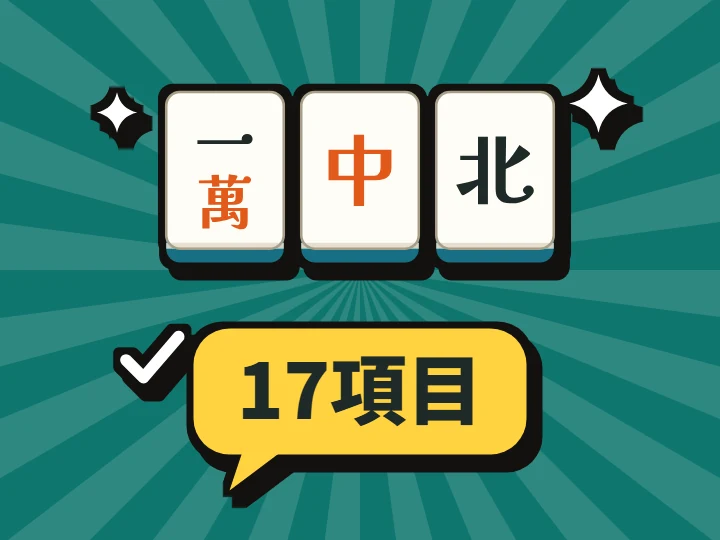
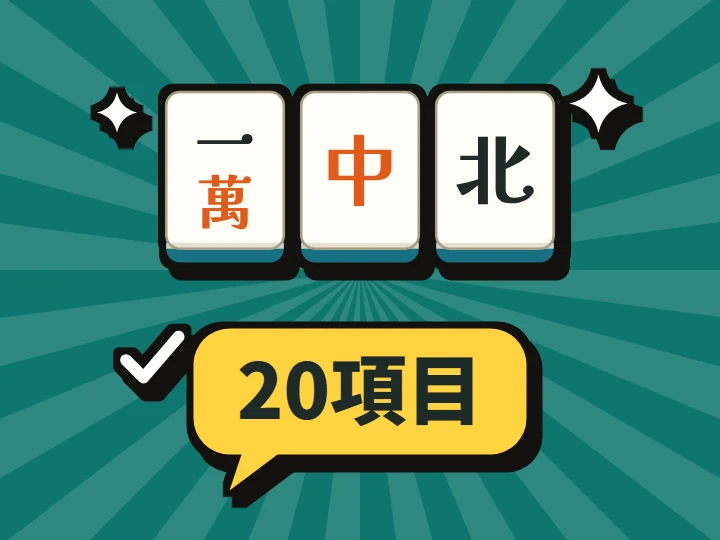
上級ルールの記事に「トビありの卓で確かめたい3項目」を足す（17→20項目）
ユーザーの依頼。0点・マイナスになるリーチ、トビ賞は飛ばした人か1着か、ツモ番がないリーチを
選択肢とそのあとの扱いつきで。確認リスト・まとめ・集計係の節（トビ賞をチップで渡すときの記録）も更新。
題名・サムネ・共有画像（ファイル名を -2 に）も20項目に。分かれ目6選へのリンク先がこの記事自身だった誤りも直した。

Changed region(s): [[0.3361, 0.6519, 0.4583, 0.7704]]

diff --git a/blog-rule-joukyu.html b/blog-rule-joukyu.html
@@ -14,8 +14,8 @@ j=d.createElement(s),dl=l!='dataLayer'?'&l='+l:'';j.async=true;j.src=
 <meta name="google-adsense-account" content="ca-pub-9998035509478799">
 <script async src="https://pagead2.googlesyndication.com/pagead/js/adsbygoogle.js?client=ca-pub-9998035509478799"
      crossorigin="anonymous"></script>
-<title>【保存版】打つ前に確認したい上級ルール17項目｜ダブル役満・国士の暗槓ロン・カンドラ・北抜き・ツモり切り | まじゃすこ</title>
-<meta name="description" content="ダブル役満（四暗刻単騎・国士13面・純正九蓮宝燈）、国士の暗槓ロン、カンドラのめくり方、パオ、リーチ後のカン、あがりやめ、ローカル役、三麻の北抜き・花牌・赤・嶺上牌・ツモり切り・ツモ損。揉めやすい17項目を選択肢つきで整理します。">
+<title>【保存版】打つ前に確認したい上級ルール20項目｜ダブル役満・国士の暗槓ロン・トビ寸前のリーチ・北抜き | まじゃすこ</title>
+<meta name="description" content="ダブル役満（四暗刻単騎・国士13面・純正九蓮宝燈）、国士の暗槓ロン、カンドラのめくり方、パオ、リーチ後のカン、あがりやめ、ローカル役、三麻の北抜き・花牌・赤・嶺上牌・ツモり切り・ツモ損。トビ寸前のリーチ・トビ賞・ツモ番なしのリーチも。揉めやすい20項目を選択肢つきで整理します。">
 <link rel="canonical" href="https://majasco.jp/blog-rule-joukyu.html">
 <link rel="alternate" type="application/rss+xml" title="まじゃすこ お知らせRSS" href="https://majasco.jp/news/feed.xml">
 <link rel="icon" type="image/png" sizes="512x512" href="/assets/favicon.png">
@@ -25,17 +25,17 @@ j=d.createElement(s),dl=l!='dataLayer'?'&l='+l:'';j.async=true;j.src=
 <meta property="og:type" content="article">
 <meta property="og:url" content="https://majasco.jp/blog-rule-joukyu.html">
 <meta property="og:site_name" content="まじゃすこ / majasco">
-<meta property="og:title" content="【保存版】打つ前に確認したい上級ルール17項目｜ダブル役満・国士の暗槓ロン・カンドラ・北抜き・ツモり切り">
-<meta property="og:description" content="玄人の卓・ローカル役・三麻で揉めやすい17項目を、選択肢つきの確認リストに。">
+<meta property="og:title" content="【保存版】打つ前に確認したい上級ルール20項目｜ダブル役満・国士の暗槓ロン・トビ寸前のリーチ・北抜き">
+<meta property="og:description" content="玄人の卓・トビ・ローカル役・三麻で揉めやすい20項目を、選択肢つきの確認リストに。">
 <meta property="og:locale" content="ja_JP">
-<meta property="og:image" content="https://majasco.jp/assets/og/blog-rule-joukyu.png">
+<meta property="og:image" content="https://majasco.jp/assets/og/blog-rule-joukyu-2.png">
 <meta property="og:image:width" content="1200">
 <meta property="og:image:height" content="630">
 <meta name="twitter:card" content="summary_large_image">
 <meta name="twitter:site" content="@majasco_jp">
-<meta name="twitter:image" content="https://majasco.jp/assets/og/blog-rule-joukyu.png">
-<meta name="twitter:title" content="【保存版】打つ前に確認したい上級ルール17項目｜ダブル役満・国士の暗槓ロン・カンドラ・北抜き・ツモり切り">
-<meta name="twitter:description" content="玄人の卓・ローカル役・三麻で揉めやすい17項目を、選択肢つきの確認リストに。">
+<meta name="twitter:image" content="https://majasco.jp/assets/og/blog-rule-joukyu-2.png">
+<meta name="twitter:title" content="【保存版】打つ前に確認したい上級ルール20項目｜ダブル役満・国士の暗槓ロン・トビ寸前のリーチ・北抜き">
+<meta name="twitter:description" content="玄人の卓・トビ・ローカル役・三麻で揉めやすい20項目を、選択肢つきの確認リストに。">
 <style>
 * { box-sizing: border-box; margin: 0; padding: 0; }
 body { font-family: -apple-system, BlinkMacSystemFont, 'Segoe UI', 'Hiragino Kaku Gothic ProN', 'Noto Sans JP', sans-serif; background: #fff; color: #222; line-height: 1.95; -webkit-font-smoothing: antialiased; }
@@ -118,7 +118,7 @@ body { font-family: -apple-system, BlinkMacSystemFont, 'Segoe UI', 'Hiragino Kak
 p .yomi, li .yomi { font-size: .78em; }
 </style>
 <link rel="stylesheet" href="/assets/blog.css">
-<script type="application/ld+json">{"@context": "https://schema.org", "@type": "Article", "headline": "【保存版】打つ前に確認したい上級ルール17項目｜ダブル役満・国士の暗槓ロン・カンドラ・北抜き・ツモり切り", "description": "ダブル役満（四暗刻単騎・国士13面・純正九蓮宝燈）、国士の暗槓ロン、カンドラのめくり方、パオ、リーチ後のカン、あがりやめ、ローカル役、三麻の北抜き・花牌・赤・嶺上牌・ツモり切り・ツモ損。揉めやすい17項目を選択肢つきで整理します。", "image": "https://majasco.jp/assets/og/blog-rule-joukyu.png", "datePublished": "2026-11-11", "dateModified": "2026-11-11", "author": {"@type": "Person", "name": "むにぃ", "url": "https://majasco.jp/about.html"}, "publisher": {"@type": "Organization", "name": "まじゃすこ / majasco", "logo": {"@type": "ImageObject", "url": "https://majasco.jp/assets/favicon.png"}}, "mainEntityOfPage": "https://majasco.jp/blog-rule-joukyu.html"}</script>
+<script type="application/ld+json">{"@context": "https://schema.org", "@type": "Article", "headline": "【保存版】打つ前に確認したい上級ルール20項目｜ダブル役満・国士の暗槓ロン・トビ寸前のリーチ・北抜き", "description": "ダブル役満（四暗刻単騎・国士13面・純正九蓮宝燈）、国士の暗槓ロン、カンドラのめくり方、パオ、リーチ後のカン、あがりやめ、ローカル役、三麻の北抜き・花牌・赤・嶺上牌・ツモり切り・ツモ損。トビ寸前のリーチ・トビ賞・ツモ番なしのリーチも。揉めやすい20項目を選択肢つきで整理します。", "image": "https://majasco.jp/assets/og/blog-rule-joukyu-2.png", "datePublished": "2026-11-11", "dateModified": "2026-11-11", "author": {"@type": "Person", "name": "むにぃ", "url": "https://majasco.jp/about.html"}, "publisher": {"@type": "Organization", "name": "まじゃすこ / majasco", "logo": {"@type": "ImageObject", "url": "https://majasco.jp/assets/favicon.png"}}, "mainEntityOfPage": "https://majasco.jp/blog-rule-joukyu.html"}</script>
   <link rel="stylesheet" href="/assets/site-foot.css">
 </head>
 <body>
@@ -137,16 +137,16 @@ height="0" width="0" style="display:none;visibility:hidden"></iframe></noscript>
 
 <div class="post-layout">
 <article class="blog-post">
-  <h1>【保存版】打つ前に確認したい上級ルール17項目｜ダブル役満・国士の暗槓ロン・カンドラ・北抜き・ツモり切り</h1>
+  <h1>【保存版】打つ前に確認したい上級ルール20項目｜ダブル役満・国士の暗槓ロン・トビ寸前のリーチ・北抜き</h1>
   <p class="post-meta">2026.11.11</p>
 
   <figure class="eyecatch"><img src="/assets/thumbs/blog-rule-joukyu.webp" alt="打つ前に確認したい上級ルールのイメージ" width="320" height="240" fetchpriority="high"></figure>
 
-  <div class="post-ans"><p class="pa-h">この記事の結論</p><ul><li>基本の10項目の先に、揉めやすい<strong>17項目</strong>がある（玄人7・ローカル役4・三麻6）</li><li>どれも正解は1つではない。<strong>選択肢を見せて、打つ前に決める</strong></li><li>どれを選んでも、<strong>最後の持ち点を入れればスコアの計算は同じ</strong></li></ul></div>
-  <div class="post-toc"><b>この記事でわかること</b><a href="#kurouto">玄人の7項目</a><a href="#yakuman">ダブル役満</a><a href="#kokushi">国士の暗槓ロン</a><a href="#kandora">カンドラ</a><a href="#local">ローカル役</a><a href="#sanma">三麻の6項目</a><a href="#list">確認リスト</a><a href="#shukei">集計係の目線</a></div>
+  <div class="post-ans"><p class="pa-h">この記事の結論</p><ul><li>基本の10項目の先に、揉めやすい<strong>20項目</strong>がある（玄人7・トビ3・ローカル役4・三麻6）</li><li>どれも正解は1つではない。<strong>選択肢を見せて、打つ前に決める</strong></li><li>どれを選んでも、<strong>最後の持ち点を入れればスコアの計算は同じ</strong></li></ul></div>
+  <div class="post-toc"><b>この記事でわかること</b><a href="#kurouto">玄人の7項目</a><a href="#yakuman">ダブル役満</a><a href="#kokushi">国士の暗槓ロン</a><a href="#kandora">カンドラ</a><a href="#tobi">トビの3項目</a><a href="#local">ローカル役</a><a href="#sanma">三麻の6項目</a><a href="#list">確認リスト</a><a href="#shukei">集計係の目線</a></div>
 
   <p>持ち点・ウマ・同点・供託といった基本の決めごとは「<a href="/blog-house-rules.html">打つ前に決める10項目チェックリスト</a>」にまとめました。ただ、いつものメンバーで長く打っていると、その先の細かいルールで手が止まる場面が出てきます。「<ruby>四暗刻<rt>スーアンコー</rt></ruby>の<ruby>単騎<rt>タンキ</rt></ruby>ってダブルだっけ？」「三麻で北は抜く？」——ふだんは起きないので、起きたときにだけ揉めるルールです。</p>
-  <p>この記事では、そうした上級のルールを17項目、選択肢つきで並べました。どれも「こちらが正しい」とは言えません。大事なのは、どちらにするかを打つ前に決めて、全員が同じ答えを持っていることです。意見が分かれやすい基本の6つ（ダブ東の符・ダブロンなど）は「<a href="/blog-rule-joukyu.html">麻雀ルールの分かれ目6選</a>」で比べています。</p>
+  <p>この記事では、そうした上級のルールを20項目、選択肢つきで並べました。どれも「こちらが正しい」とは言えません。大事なのは、どちらにするかを打つ前に決めて、全員が同じ答えを持っていることです。意見が分かれやすい基本の6つ（ダブ東の符・ダブロンなど）は「<a href="/blog-rule-wakareme.html">麻雀ルールの分かれ目6選</a>」で比べています。</p>
 
   <figure class="fg" id="fg-jk"><p class="fg-ttl">玄人の卓の「どっち？」</p><div class="fg-vs"><div class="vs-q">四暗刻単騎・国士13面・純正九蓮</div><div class="vs-row"><div class="vs-a">ダブル<ruby>役満<rt>ヤクマン</rt></ruby><small>形の難しさに報いる</small></div><span class="vs-x">VS</span><div class="vs-b">ふつうの役満<small>役満は役満</small></div></div><div class="vs-q"><ruby>国士無双<rt>コクシムソウ</rt></ruby>で人の<ruby>暗槓<rt>アンカン</rt></ruby>をロン</div><div class="vs-row"><div class="vs-a">できる<small>国士だけの特例</small></div><span class="vs-x">VS</span><div class="vs-b">できない<small><ruby>搶槓<rt>チャンカン</rt></ruby>は<ruby>加槓<rt>カカン</rt></ruby>だけ</small></div></div><div class="vs-q"><ruby>明槓<rt>ミンカン</rt></ruby>のカンドラ</div><div class="vs-row"><div class="vs-a">すぐめくる<small>先めくり</small></div><span class="vs-x">VS</span><div class="vs-b">捨ててから<small>後めくり</small></div></div><div class="vs-q">オーラスで親がトップ</div><div class="vs-row"><div class="vs-a">あがりやめ<small>終われる</small></div><span class="vs-x">VS</span><div class="vs-b">続ける<small>親は続行</small></div></div></div><figcaption>どちらにも理由がある。下で1つずつ見ていきます</figcaption></figure>
 
@@ -178,6 +178,36 @@ height="0" width="0" style="display:none;visibility:hidden"></iframe></noscript>
   <h3 id="kazoe">7. 数え役満</h3>
   <p>役満の役がなくても、役とドラを足して13翻以上になったら役満にするかどうかです。競技のルールでは採用しないものもあり、仲間内では「入れる」卓も珍しくありません。</p>
 
+  <h2 id="tobi">トビありの卓で確かめたい3項目</h2>
+  <p>持ち点が0点を下回った人が出たら、その時点で試合を終える「トビ終了」の卓では、点数が少なくなった人のリーチと、トビ賞の受け取り方で揉めやすくなります。どれも<strong>持ち点が少ない人がいる局でしか起きない</strong>ので、ふだんは気にしなくても、起きた瞬間に手が止まります。ここでは「0点ちょうどはトビではない（0点を下回ったらトビ）」として、続ける場合の決めごとを並べます。0点ちょうどもトビにする卓では、下の「0点になるリーチ」はトビのリーチと同じ扱いになります。</p>
+  <figure class="fg" id="fg-jktobi"><p class="fg-ttl">トビ寸前の「どっち？」</p><div class="fg-vs"><div class="vs-q">持ち点1,000点でリーチ（0点になる）</div><div class="vs-row"><div class="vs-a">できる<small>0点はトビではない</small></div><span class="vs-x">VS</span><div class="vs-b">できない<small>出せる点棒がない</small></div></div><div class="vs-q">持ち点500点でリーチ（−500点になる）</div><div class="vs-row"><div class="vs-a">できる<small>あがれば戻れる</small></div><span class="vs-x">VS</span><div class="vs-b">できない<small>1,000点に足りない</small></div></div><div class="vs-q">トビ賞をもらうのは</div><div class="vs-row"><div class="vs-a">飛ばした人<small>とどめを刺した人</small></div><span class="vs-x">VS</span><div class="vs-b">その時の1着<small>トップの人</small></div></div><div class="vs-q">もうツモ番がないのにリーチ</div><div class="vs-row"><div class="vs-a">できる<small>ロンだけを待つ</small></div><span class="vs-x">VS</span><div class="vs-b">できない<small>ツモれないので不可</small></div></div></div><figcaption>どれも、持ち点が少ない人や山の残りが少ない局でしか起きない</figcaption></figure>
+
+  <h3 id="tobi-riichi">8. 持ち点が0点・マイナスになるリーチ</h3>
+  <p>リーチをするには、供託の1,000点棒を出します。持ち点が1,000点ちょうどの人がリーチをすると0点に、1,000点に足りない人がリーチをすると<strong>マイナス</strong>になります。トビ終了の卓では、これを認めるかどうかで、その人の最後の1局が変わります。</p>
+  <div class="table-scroll"><table><thead><tr><th>場面</th><th>決め方</th><th>そのあと</th></tr></thead><tbody>
+  <tr><td>0点になるリーチ</td><td>できる</td><td>0点はトビではないので、局が終わっても続行。<br>あがれば持ち点が戻る</td></tr>
+  <tr><td>0点になるリーチ</td><td>できない</td><td>1,000点を出したら手元に点棒が残らないので、リーチはかけられない</td></tr>
+  <tr><td>マイナスになるリーチ</td><td>できる</td><td>あがれば戻れる。<br>あがれずに局が終わってマイナスのままなら、そこでトビ</td></tr>
+  <tr><td>マイナスになるリーチ</td><td>できない</td><td>持ち点が1,000点に足りない人はリーチできない。<br>ダマで待つ</td></tr>
+  </tbody></table></div>
+  <p>マイナスになるリーチを認めるときは、<strong>トビを判定するのは局が終わったとき</strong>（リーチ棒を出した瞬間ではない）と決めておくと迷いません。認めないときは、持ち点が足りないのにリーチを宣言してしまった場合に、取り消して続けるのか、チョンボにするのかもあわせて決めます。</p>
+
+  <h3 id="tobi-sho">9. トビ賞は誰がもらうか</h3>
+  <p>人を飛ばした（0点を下回らせた）ときに、ご褒美を出すのがトビ賞です。トビ賞を入れるなら、<strong>誰がもらうか</strong>を決めておきます。</p>
+  <div class="table-scroll"><table><thead><tr><th>決め方</th><th>考え方</th><th>気をつけたいこと</th></tr></thead><tbody>
+  <tr><td>飛ばした人がもらう</td><td>とどめを刺したあがりに報いる</td><td>ツモで飛んだときは、ツモであがった人。<br>ダブロンで飛んだときは2人で分けるか、<ruby>上家<rt>カミチャ</rt></ruby>取りにするか</td></tr>
+  <tr><td>その時の1着がもらう</td><td>試合の結果（トップ）に報いる</td><td>飛ばした人と1着が別の人のこともある。<br>同点の1着がいたら分けるか</td></tr>
+  </tbody></table></div>
+  <p>あわせて、<strong>何をもらうか</strong>（点数を足すのか、チップを何枚か）と、<strong>飛んだ人がマイナスの分をどう扱うか</strong>（そのままの持ち点で計算するか、0点として計算するか）も決めます。持ち点の扱いは、<ruby>半荘<rt>ハンチャン</rt></ruby>のスコアに直接響きます。</p>
+
+  <h3 id="tsumoban">10. ツモ番がないリーチ</h3>
+  <p>山の残りが少なくなって、<strong>自分にもうツモ番が回ってこない</strong>ときのリーチです。四麻では山の残りが4枚より少ないと（三麻なら3枚）、リーチをしても自分では1回もツモれません。</p>
+  <div class="table-scroll"><table><thead><tr><th>決め方</th><th>考え方</th></tr></thead><tbody>
+  <tr><td>できる</td><td>ロンなら待てる。<br>リーチの1翻と、流局したときのテンパイの扱いで点数が動く</td></tr>
+  <tr><td>できない</td><td>リーチは、自分のツモが1回以上あるときだけ。<br>流局まで待つだけのリーチは認めない</td></tr>
+  </tbody></table></div>
+  <p>できないことにする卓が多いルールです。そのときは「山の残りが何枚から」を決めておくと、その場で数えて判断できます。間違えてリーチを宣言したときに、取り消すのかチョンボにするのかも、8と同じように決めておきます。</p>
+
   <h2 id="local">ローカル役は「あるか・何点か」を決める</h2>
   <p>ローカル役は、一般的なルールにはないけれど、地域や仲間内で使われる役です。<strong>あるかないか</strong>と、<strong>あるなら何点か</strong>の2つを決めます。</p>
   <div class="table-scroll"><table><thead><tr><th>役</th><th>条件</th><th>よくある扱い</th></tr></thead><tbody>
@@ -201,10 +231,11 @@ height="0" width="0" style="display:none;visibility:hidden"></iframe></noscript>
   <p>ツモり切りは、王牌を残さずにドラ表示牌のすぐ横まで引くルールで、ツモの回数が増えます。抜く牌や点棒の数え方など、三麻の基本は「<a href="/blog-sanma-rules.html">三麻のルールの分かれ目</a>」にあります。</p>
 
   <h2 id="list">打つ前の確認リスト</h2>
-  <figure class="fg" id="fg-jkc"><p class="fg-ttl">上級の17項目</p><ul class="fg-check">
+  <figure class="fg" id="fg-jkc"><p class="fg-ttl">上級の20項目</p><ul class="fg-check">
   <li><b>玄人</b>：ダブル役満（単騎・13面・純正）／役満の重なり・数え役満</li>
   <li><b>玄人</b>：国士の暗槓ロン／カンドラのめくり方</li>
   <li><b>玄人</b>：パオの対象／リーチ後のカン／あがりやめ・テンパイやめ</li>
+  <li><b>トビ</b>：0点・マイナスになるリーチ／トビ賞は誰がもらうか／ツモ番がないリーチ</li>
   <li><b>ローカル役</b>：流し満貫／十三不塔／四風連打／人和</li>
   <li><b>三麻</b>：北の扱い／花牌／赤の枚数</li>
   <li><b>三麻</b>：嶺上牌の数／ツモり切り／ツモ損かツモ折半</li>
@@ -212,12 +243,13 @@ height="0" width="0" style="display:none;visibility:hidden"></iframe></noscript>
   <p>コツは、全部を毎回確かめようとしないことです。いつものメンバーなら一度決めて、グループのLINEなどに残しておけば次からは聞かずに済みます。初めての相手と打つ日だけ、このリストを上から読み上げてください。</p>
 
   <h2 id="shukei">集計係の目線：どのルールでも、入れるのは最後の持ち点</h2>
-  <p>この記事の17項目は、どれも<strong>局の中の点棒のやり取り</strong>か、<strong>試合をいつ終えるか</strong>の話です。ダブル役満でもツモ損でも、点棒は誰かから誰かへ動くだけなので、4人（三麻なら3人）の持ち点の合計は変わりません。四麻25,000点持ちなら100,000点、三麻35,000点持ちなら105,000点のままです。</p>
+  <p>この記事の20項目は、どれも<strong>局の中の点棒のやり取り</strong>か、<strong>試合をいつ終えるか</strong>の話です。ダブル役満でもツモ損でも、点棒は誰かから誰かへ動くだけなので、4人（三麻なら3人）の持ち点の合計は変わりません。四麻25,000点持ちなら100,000点、三麻35,000点持ちなら105,000点のままです。</p>
   <p>だから集計のやり方は、どのルールを選んでも同じです。まじゃすこでも入れるのは最後の持ち点だけで、ウマ・オカをつけたスコアは自動で出ます。合計が合わないときは、供託のリーチ棒か点棒の数え間違いを疑ってください（「<a href="/blog-score-mismatch.html">点数が合わないときのチェックリスト</a>」）。</p>
+  <p>トビ賞だけは、点数かチップで渡すかで記録の仕方が変わります。点数で渡すなら、渡したあとの持ち点をそのまま入れます。チップで渡すなら、まじゃすこの「チップあり」で、終わったときに増えた・減った枚数を記録できます。飛んだ人のマイナスの持ち点も、そのまま入れれば計算できます（0点として計算する卓なら0を入れます）。</p>
 
   <h2>よくある質問</h2>
   <h3>Q. 全部決めないと打ってはいけませんか？</h3>
-  <p>A. いいえ。基本の10項目さえ決まっていれば、その日の集計は最後までできます。この記事の17項目は「起きたら揉める」ものなので、初めての相手と打つ日や、大会のように順位が大事な日に確かめれば十分です。</p>
+  <p>A. いいえ。基本の10項目さえ決まっていれば、その日の集計は最後までできます。この記事の20項目は「起きたら揉める」ものなので、初めての相手と打つ日や、大会のように順位が大事な日に確かめれば十分です。</p>
   <h3>Q. 決めていない場面が起きたら、どうすればいい？</h3>
   <p>A. その局は、点数が小さくなるほう（ダブルにしない・特例を認めないなど）でいったん処理し、次の試合からのルールをその場で決めるのが角が立ちにくい方法です。決めたことは、その日のうちに残しておきます。</p>
   <h3>Q. まじゃすこでこれらの設定は必要ですか？</h3>
@@ -226,7 +258,8 @@ height="0" width="0" style="display:none;visibility:hidden"></iframe></noscript>
   <h2>まとめ</h2>
   <ul>
     <li>玄人の卓では、ダブル役満・国士の暗槓ロン・カンドラ・パオ・リーチ後のカン・あがりやめ・数え役満の7つを確かめる</li>
-    <li>ローカル役は「あるか」と「何点か」の2つを決める（流し満貫・十三不塔・四風連打・人和）</li>
+    <li>トビ終了の卓では、0点・マイナスになるリーチ、トビ賞を誰がもらうか、ツモ番がないリーチの3つを決める</li>
+  <li>ローカル役は「あるか」と「何点か」の2つを決める（流し満貫・十三不塔・四風連打・人和）</li>
     <li>三麻は北の扱い・花牌・赤・嶺上牌・ツモり切り・ツモ損かツモ折半の6つが分かれやすい</li>
     <li>どれを選んでも持ち点の合計は変わらない。集計は最後の持ち点を入れるだけ</li>
   </ul>

diff --git a/blog-pro-dantai-rules.html b/blog-pro-dantai-rules.html
@@ -203,7 +203,7 @@ height="0" width="0" style="display:none;visibility:hidden"></iframe></noscript>
     </tbody>
   </table>
   <p style="font-size:13px;color:#5F6E6B">「―」は公式の情報で確かめられなかった項目です。連盟・RMU・麻将連合の一部の数字は、団体のルールを比べた公開資料によります（出典は記事の最後）。</p>
-  <p>役満の重なりは、<ruby>字一色<rt>ツーイーソー</rt></ruby>と大三元のように違う役満が重なったときの扱いです。<ruby>四暗刻<rt>スーアンコー</rt></ruby>の<ruby>単騎<rt>タンキ</rt></ruby>待ち・<ruby>国士無双<rt>コクシムソウ</rt></ruby>の13面待ちなど、形でダブル役満にするかどうかは、仲間内で分かれやすいところです。国士の<ruby>暗槓<rt>アンカン</rt></ruby>ロンやカンドラのめくり方など、ほかの細かい決めごとは「<a href="/blog-rule-joukyu.html">打つ前に確認したい上級ルール17項目</a>」にまとめています。</p>
+  <p>役満の重なりは、<ruby>字一色<rt>ツーイーソー</rt></ruby>と大三元のように違う役満が重なったときの扱いです。<ruby>四暗刻<rt>スーアンコー</rt></ruby>の<ruby>単騎<rt>タンキ</rt></ruby>待ち・<ruby>国士無双<rt>コクシムソウ</rt></ruby>の13面待ちなど、形でダブル役満にするかどうかは、仲間内で分かれやすいところです。国士の<ruby>暗槓<rt>アンカン</rt></ruby>ロンやカンドラのめくり方など、ほかの細かい決めごとは「<a href="/blog-rule-joukyu.html">打つ前に確認したい上級ルール20項目</a>」にまとめています。</p>
 
   <h3>連盟の「浮き沈み」の順位点</h3>
   <p>日本プロ麻雀連盟の公式ルールでは、終了時に持ち点が30,000点を超えている人（浮いている人）が何人いるかで、順位点が変わります。</p>

diff --git a/assets/blog-site.js b/assets/blog-site.js
@@ -48,7 +48,7 @@ const BLOG_POSTS = [
     title: '【早見表】三麻の点数表｜ツモ損あり・なし（北家の分を折半）で子・親のツモはいくら？',
     desc: '三麻の点数表をツモ損あり・なしの2枚で。ロンは四麻と同じ、違うのはツモの払いだけ。同じあがりを四麻と比べる表と、ツモ損なしの計算のしかたも。' },
   { url: '/blog-rule-joukyu.html', cat: 'rules', date: '2026.11.11', tag: 'ルール',
-    title: '【保存版】打つ前に確認したい上級ルール17項目｜ダブル役満・国士の暗槓ロン・カンドラ・北抜き・ツモり切り',
+    title: '【保存版】打つ前に確認したい上級ルール20項目｜ダブル役満・国士の暗槓ロン・トビ寸前のリーチ・北抜き',
     desc: 'ダブル役満・国士の暗槓ロン・カンドラ・パオ・リーチ後のカン・あがりやめ、ローカル役、三麻の北抜き・花牌・赤・嶺上牌・ツモり切り・ツモ損を選択肢つきで。' },
   { url: '/blog-team-league.html', cat: 'score', date: '2026.11.06', tag: 'チーム戦',
     title: '【実例】麻雀をMリーグのようなチーム戦で楽しむ方法｜16人4チームの作り方と結果の共有',

diff --git a/rules/index.html b/rules/index.html
@@ -72,7 +72,7 @@ height="0" width="0" style="display:none;visibility:hidden"></iframe></noscript>
     <a class="post-card has-thumb cat-rules" href="/blog-rule-joukyu.html">
       <span class="pc-thumb"><img src="/assets/thumbs/blog-rule-joukyu.webp" alt="" width="320" height="240" loading="lazy" decoding="async"></span>
       <div class="pc-body"><span class="pc-meta"><span class="pc-cat">ルールの深掘り</span><span class="date">2026.11.11</span></span>
-      <h2>【保存版】打つ前に確認したい上級ルール17項目<span class="pc-sub">ダブル役満・国士の暗槓ロン・カンドラ・北抜き・ツモり切り</span></h2></div>
+      <h2>【保存版】打つ前に確認したい上級ルール20項目<span class="pc-sub">ダブル役満・国士の暗槓ロン・トビ寸前のリーチ・北抜き</span></h2></div>
     </a>
     <a class="post-card has-thumb cat-rules" href="/blog-mahjong-suuji.html">
       <span class="pc-thumb"><img src="/assets/thumbs/blog-mahjong-suuji.webp" alt="" width="320" height="240" loading="lazy" decoding="async"></span>

diff --git a/blog.html b/blog.html
@@ -72,7 +72,7 @@ height="0" width="0" style="display:none;visibility:hidden"></iframe></noscript>
     <a class="post-card has-thumb cat-rules" href="/blog-rule-joukyu.html">
       <span class="pc-thumb"><img src="/assets/thumbs/blog-rule-joukyu.webp" alt="" width="320" height="240" loading="lazy" decoding="async"></span>
       <div class="pc-body"><span class="pc-meta"><span class="pc-cat">ルールの深掘り</span><span class="date">2026.11.11</span></span>
-      <h2>【保存版】打つ前に確認したい上級ルール17項目<span class="pc-sub">ダブル役満・国士の暗槓ロン・カンドラ・北抜き・ツモり切り</span></h2></div>
+      <h2>【保存版】打つ前に確認したい上級ルール20項目<span class="pc-sub">ダブル役満・国士の暗槓ロン・トビ寸前のリーチ・北抜き</span></h2></div>
     </a>
     <a class="post-card has-thumb cat-score" href="/blog-team-league.html">
       <span class="pc-thumb"><img src="/assets/thumbs/blog-team-league.webp" alt="" width="320" height="240" loading="lazy" decoding="async"></span>

diff --git a/mahjong/index.html b/mahjong/index.html
@@ -72,7 +72,7 @@ height="0" width="0" style="display:none;visibility:hidden"></iframe></noscript>
     <a class="post-card has-thumb cat-rules" href="/blog-rule-joukyu.html">
       <span class="pc-thumb"><img src="/assets/thumbs/blog-rule-joukyu.webp" alt="" width="320" height="240" loading="lazy" decoding="async"></span>
       <div class="pc-body"><span class="pc-meta"><span class="pc-cat">ルールの深掘り</span><span class="date">2026.11.11</span></span>
-      <h2>【保存版】打つ前に確認したい上級ルール17項目<span class="pc-sub">ダブル役満・国士の暗槓ロン・カンドラ・北抜き・ツモり切り</span></h2></div>
+      <h2>【保存版】打つ前に確認したい上級ルール20項目<span class="pc-sub">ダブル役満・国士の暗槓ロン・トビ寸前のリーチ・北抜き</span></h2></div>
     </a>
     <a class="post-card has-thumb cat-score" href="/blog-team-league.html">
       <span class="pc-thumb"><img src="/assets/thumbs/blog-team-league.webp" alt="" width="320" height="240" loading="lazy" decoding="async"></span>
